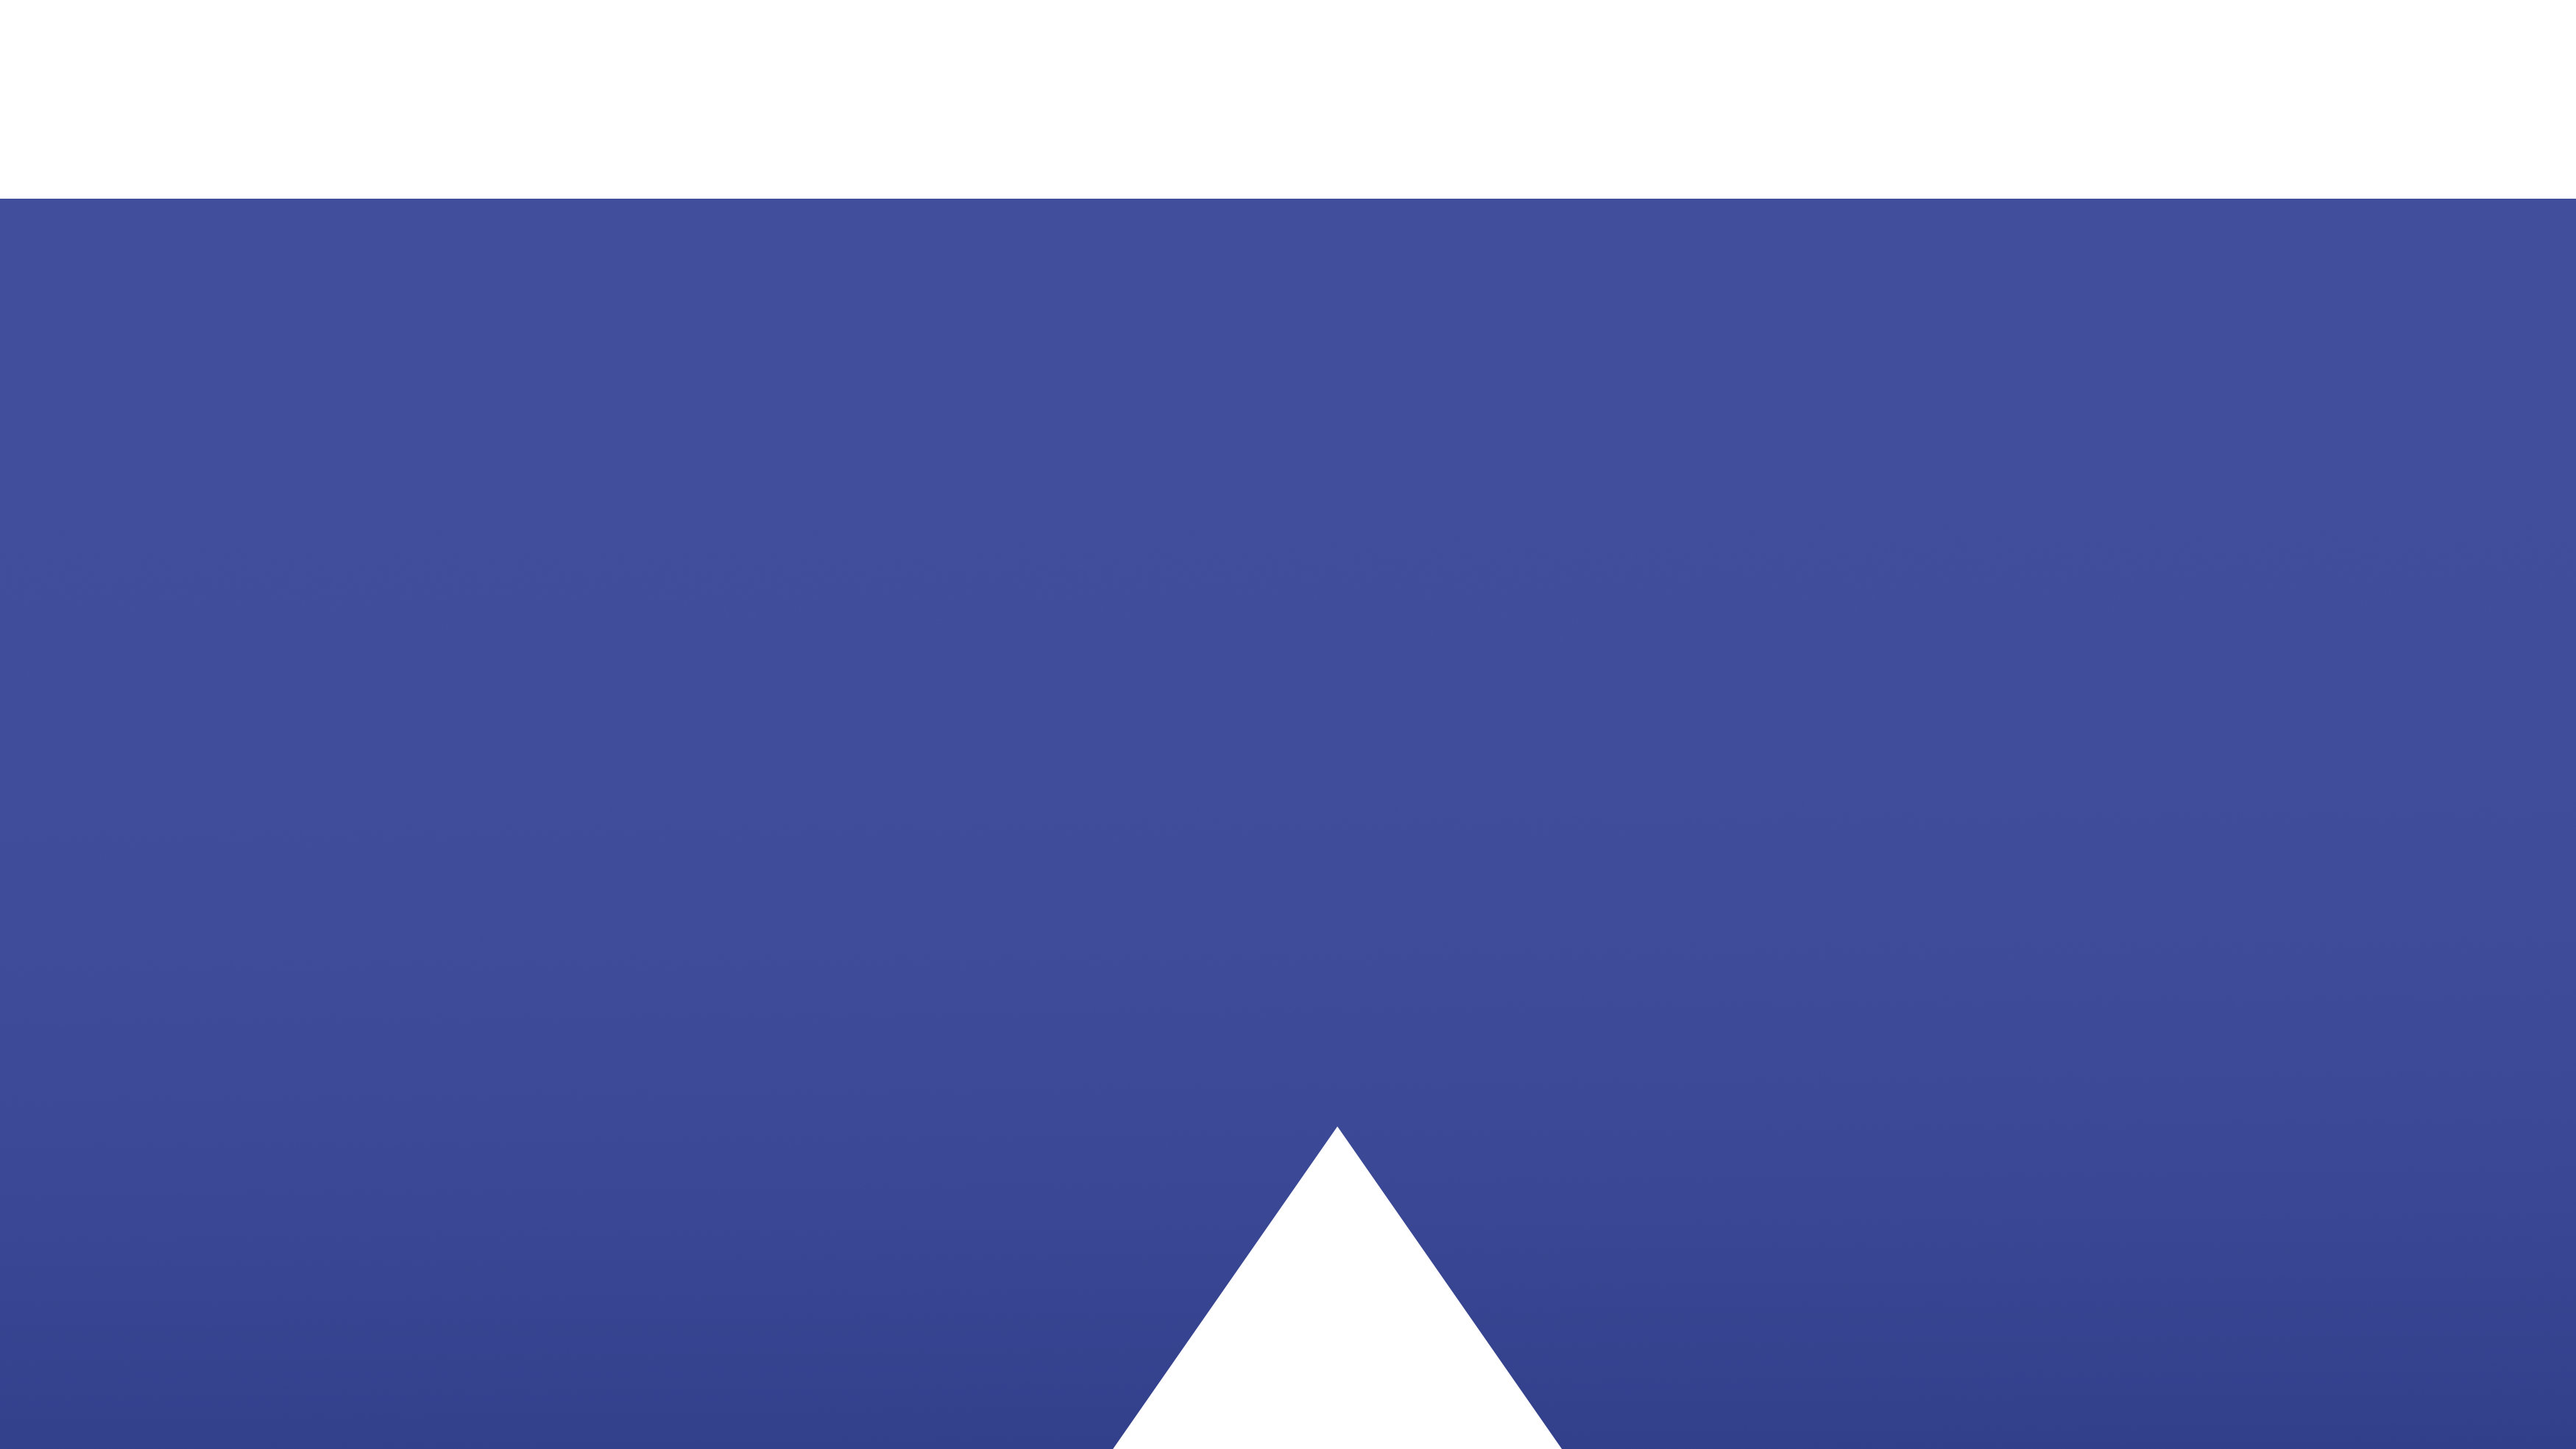
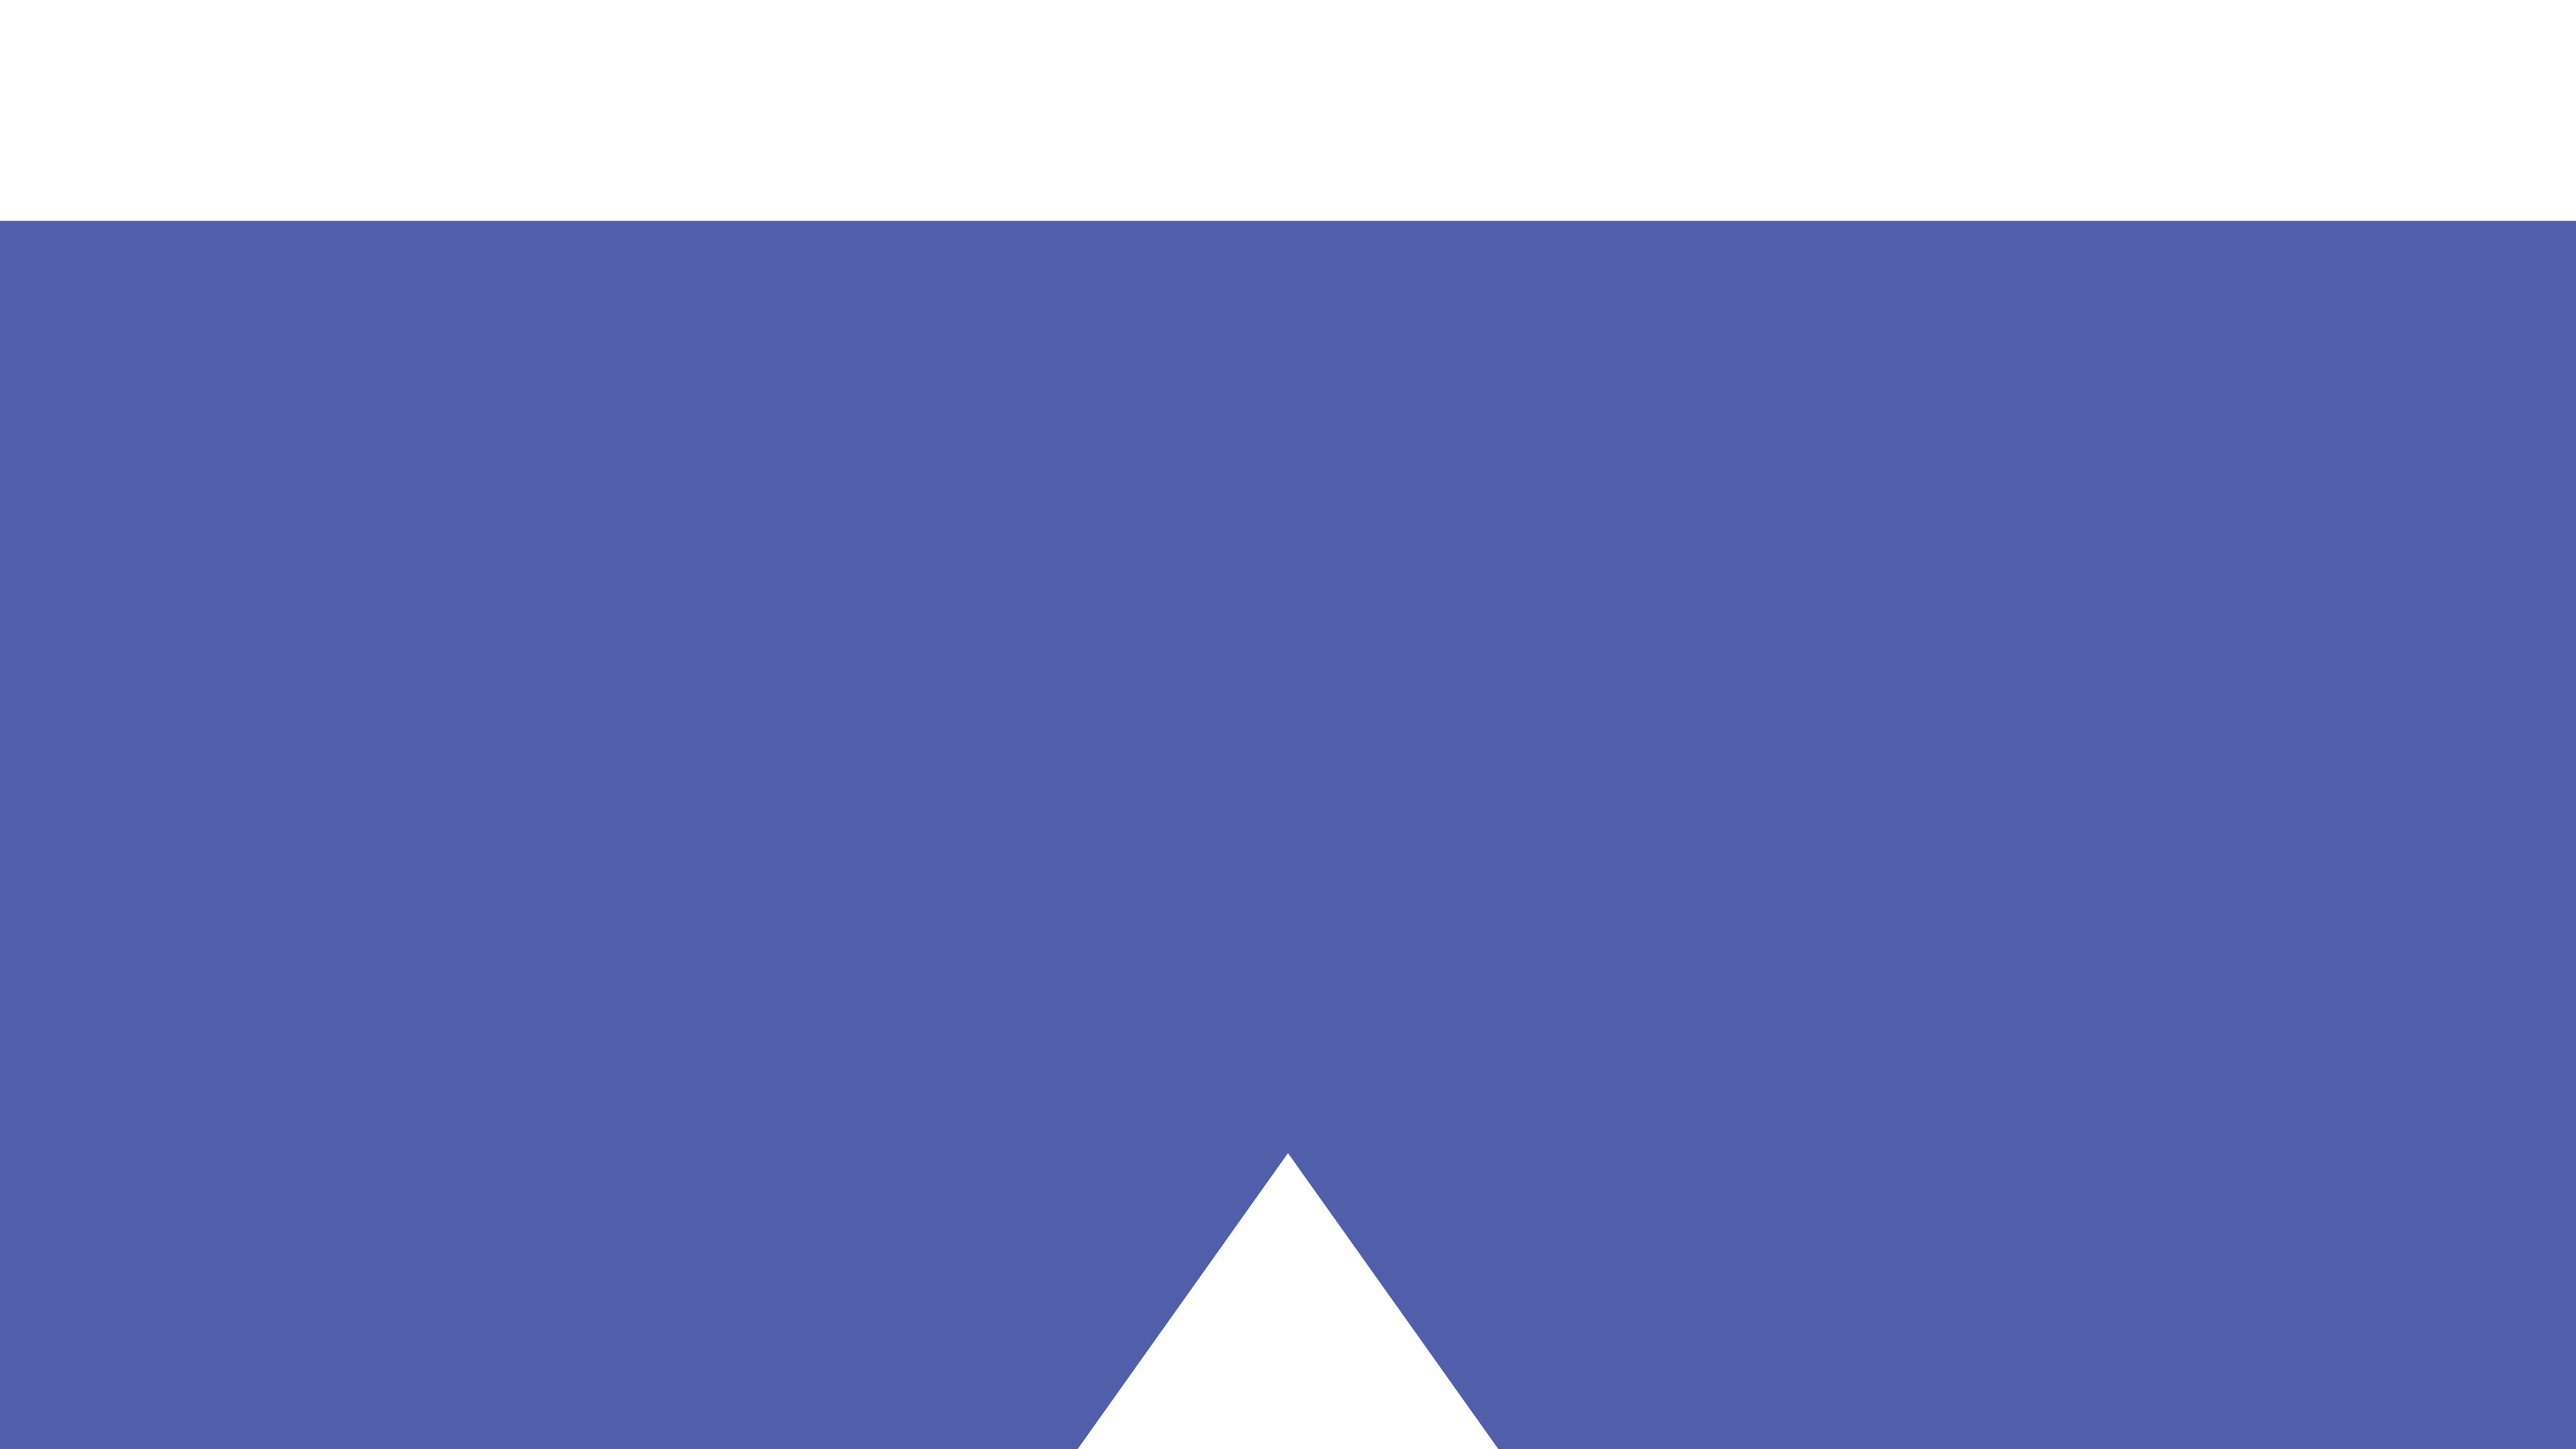
updates

Changed region(s): [[0.0, 0.7745, 1.0, 1.0], [0.0, 0.1239, 1.0, 0.1549]]

diff --git a/css/style.css b/css/style.css
@@ -198,20 +198,17 @@ body {
 	width: 100%;
 	height: 100%;
 	/*background-image: #252d5b;*/
-	position: absolute;
-	top: 130px;
-	left: 0;
 	text-align: center;
 }
 
- .banner-container h1 {
+/* .banner-container h1 {
 	position: absolute;
 	top: 50%;
 	left: 50%;
 	font-size: 130px;
 	z-index: 1;
 	color: white;
-}
+}*/
 
 /*:root {
   --primary-color: #fff;
@@ -241,7 +238,7 @@ h1::before {
     mix-blend-mode: screen;
 }*/
 
-.overlay {
+/*.overlay {
     width: 100%;
     position: absolute;
     top: 0;
@@ -251,7 +248,7 @@ h1::before {
     background-image: linear-gradient(#b7bde1, #252d5b);
     transform: scale(.5);
     animation: .5s slideIn ease-in-out forwards, 2s skewBg ease-in-out;
-}
+}*/
 
 /*@keyframes skewBg {
   0% {
@@ -275,17 +272,17 @@ h1::before {
   }
 }
 
-/*img {
+img {
    	background-image: url("../images/hero.jpg");
 	width: 100%;
 	height: auto;
-	position: relative;
+	/*position: absolute;
 	top: 0px;
-	left: 0px;
+	left: 0px;*/
 	background-position: center;
 	background-repeat: no-repeat;
 	background-size: cover;
-}*/
+}
 
 /*.main-title {
 	position: absolute;

diff --git a/index.html b/index.html
@@ -44,7 +44,7 @@
 					<!-- HOME PAGE -->
 				<div class="st-scroll">
 					<div class="banner-container">
-						<!-- <img src="../myWebsite/images/hero.jpg" alt="" width="3500px" height="1969px"> -->
+						<img src="../myWebsite/images/hero.jpg" alt="" width="3500px" height="1969px">
 
 						<div class="main-title">
 							<h1>Web Design</h1>
